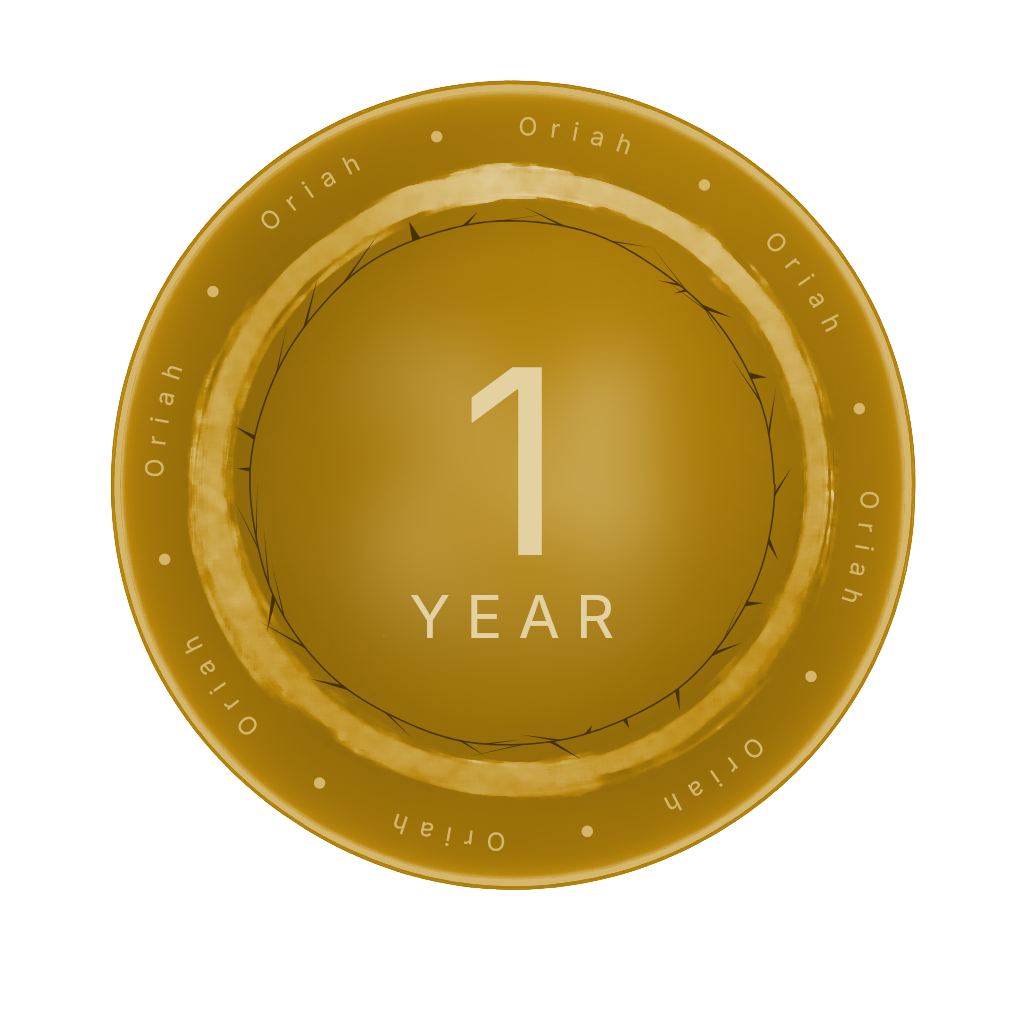
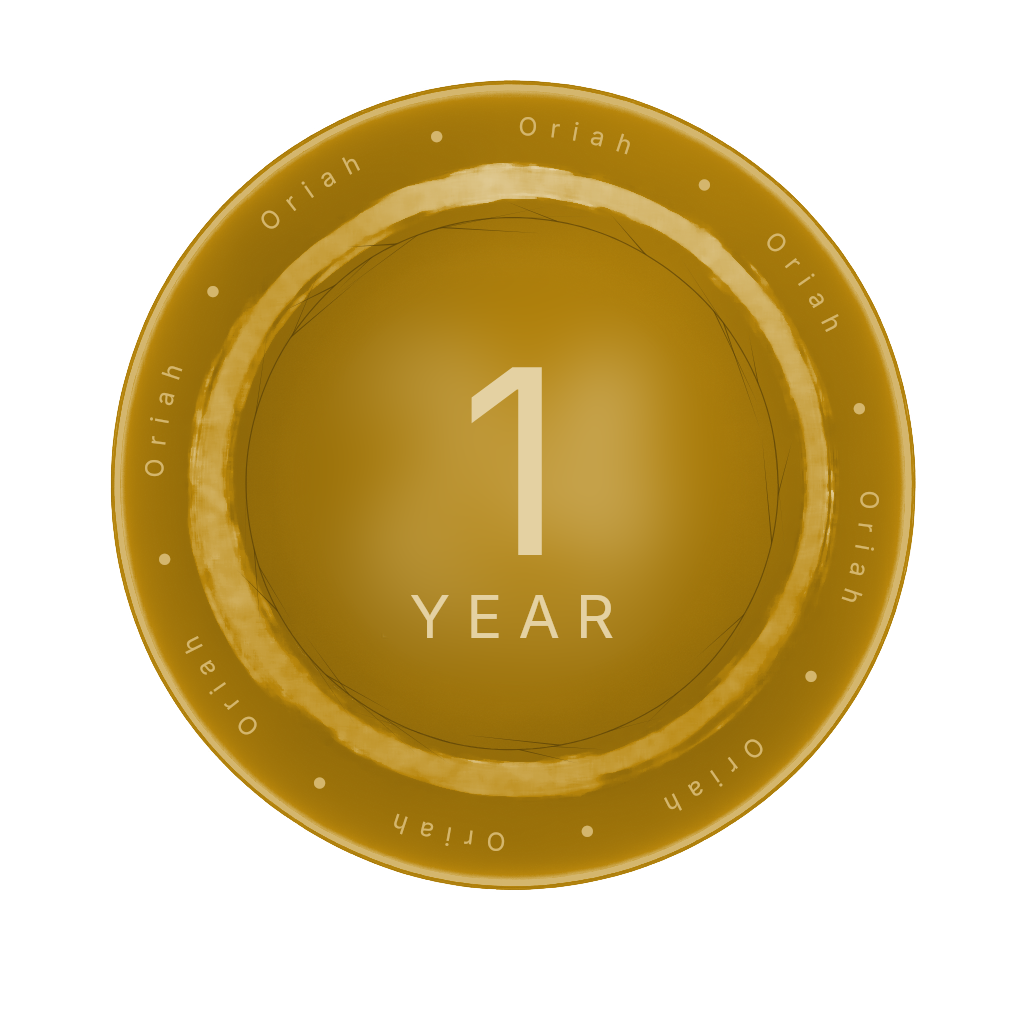
Oriah preview v3: refined thorn crown (tighter circle, skewed thorns, blended)

diff --git a/oriah-badges-staging/scripts/generate-oriah-badges.ts b/oriah-badges-staging/scripts/generate-oriah-badges.ts
@@ -379,17 +379,18 @@ function drawMicroTypography(ctx: SKRSContext2D, hex: string) {
 // Christ's crown rather than read as a decorative sawtooth border. Drawn
 // in a darker etched tone of the badge color so it reads as engraved.
 function drawCrownOfThorns(ctx: SKRSContext2D, hex: string) {
-  // Base radius of the woven branch. Sits just inside the chrome ring's
-  // inner edge (~r=265) and just outside where the date text reaches.
-  const branchR = 262
+  // Base radius of the woven branch. Sits right at the chrome ring's
+  // inner edge (~r=265) so the thorn bases kiss the ring boundary.
+  const branchR = 266
 
   const [r, g, b] = hexToRgb(hex)
-  // Dark etched tone — deeper version of the badge color, almost-black.
-  const darkR = Math.round(r * 0.35)
-  const darkG = Math.round(g * 0.35)
-  const darkB = Math.round(b * 0.35)
-  const stroke = `rgba(${darkR}, ${darkG}, ${darkB}, 0.9)`
-  const fill   = `rgba(${darkR}, ${darkG}, ${darkB}, 0.95)`
+  // Dark etched tone — pull badge color 45% toward black for a deep
+  // engraved feel that still carries the hue (instead of pure black).
+  const darkR = Math.round(r * 0.45)
+  const darkG = Math.round(g * 0.45)
+  const darkB = Math.round(b * 0.45)
+  const stroke = `rgba(${darkR}, ${darkG}, ${darkB}, 0.65)`
+  const fill   = `rgba(${darkR}, ${darkG}, ${darkB}, 0.7)`
 
   // Deterministic pseudo-randomness so thorn placement is stable across runs.
   let seed = 1337
@@ -397,13 +398,15 @@ function drawCrownOfThorns(ctx: SKRSContext2D, hex: string) {
     seed = (seed * 1664525 + 1013904223) % 0x100000000
     return seed / 0x100000000
   }
+  // Subtle wobble — keeps the branch organic without it veering off the
+  // circle. Max excursion ~0.8 px (was ~2.5).
   const noise = (t: number) =>
-    Math.sin(t * 3.1) * 1.4 + Math.sin(t * 7.7 + 1.3) * 0.7 + Math.sin(t * 13.4 + 2.7) * 0.4
+    Math.sin(t * 3.1) * 0.45 + Math.sin(t * 7.7 + 1.3) * 0.25 + Math.sin(t * 13.4 + 2.7) * 0.1
 
   ctx.save()
 
-  // 1. The woven branch — a thin closed circular line with subtle organic
-  //    wobble. Reads as a thin vine, not a perfect circle.
+  // 1. The woven branch — a thin closed circular line that traces the
+  //    chrome ring's inner edge tightly.
   ctx.beginPath()
   const ringPoints = 240
   for (let i = 0; i <= ringPoints; i++) {
@@ -415,20 +418,26 @@ function drawCrownOfThorns(ctx: SKRSContext2D, hex: string) {
     else ctx.lineTo(x, y)
   }
   ctx.strokeStyle = stroke
-  ctx.lineWidth = 1.6
+  ctx.lineWidth = 1.2
   ctx.lineJoin = 'round'
   ctx.stroke()
 
   // 2. Thorns — individual sharp triangular spikes anchored to the branch
-  //    at irregular intervals. Most point outward (away from center) like
-  //    a real thorn would grow; a handful point inward in different lengths
-  //    so the crown feels twisted, not radially perfect.
+  //    at irregular intervals. All angled slightly off-radial so none read
+  //    as a flat upright post.
   type Thorn = {
-    angle: number  // angular position around the ring
-    len: number    // distance from branch to tip
-    side: 1 | -1   // 1 = outward, -1 = inward
-    skew: number   // small angular skew so thorn isn't perfectly radial
-    base: number   // half-width at the base
+    angle: number
+    len: number
+    side: 1 | -1
+    skew: number
+    base: number
+  }
+
+  // Minimum angular skew so no thorn is perfectly radial (which reads as
+  // an upright post). Always at least 0.15 rad off, signed randomly.
+  const skewed = () => {
+    const sign = rand() < 0.5 ? -1 : 1
+    return sign * (0.15 + rand() * 0.30)  // |skew| in 0.15..0.45
   }
 
   const thorns: Thorn[] = []
@@ -439,10 +448,10 @@ function drawCrownOfThorns(ctx: SKRSContext2D, hex: string) {
     const jitter = (rand() - 0.5) * (Math.PI * 2 / N_OUT) * 0.7
     thorns.push({
       angle: evenly + jitter,
-      len: 10 + rand() * 14,    // 10–24 px
+      len: 10 + rand() * 14,      // 10–24 px
       side: 1,
-      skew: (rand() - 0.5) * 0.45,
-      base: 2 + rand() * 2.5,
+      skew: skewed(),
+      base: 1.8 + rand() * 1.0,   // 1.8–2.8 px — tighter range
     })
   }
   // A scattering of shorter inward thorns — adds the "twisted" character.
@@ -450,10 +459,10 @@ function drawCrownOfThorns(ctx: SKRSContext2D, hex: string) {
   for (let i = 0; i < N_IN; i++) {
     thorns.push({
       angle: rand() * Math.PI * 2,
-      len: 5 + rand() * 9,       // 5–14 px, shorter than outward
+      len: 5 + rand() * 9,        // 5–14 px
       side: -1,
-      skew: (rand() - 0.5) * 0.55,
-      base: 1.5 + rand() * 1.8,
+      skew: skewed(),
+      base: 1.5 + rand() * 0.8,   // 1.5–2.3 px
     })
   }
 
@@ -462,13 +471,11 @@ function drawCrownOfThorns(ctx: SKRSContext2D, hex: string) {
     const ax = CX + Math.cos(th.angle) * rBranch
     const ay = CY + Math.sin(th.angle) * rBranch
 
-    // Tip — radially out or in, plus a small angular skew for organic feel.
     const tipAngle = th.angle + th.skew
     const tipR = rBranch + th.side * th.len
     const tx = CX + Math.cos(tipAngle) * tipR
     const ty = CY + Math.sin(tipAngle) * tipR
 
-    // Base — perpendicular to the radial direction at the branch.
     const perp = th.angle + Math.PI / 2
     const b1x = ax + Math.cos(perp) * th.base
     const b1y = ay + Math.sin(perp) * th.base
